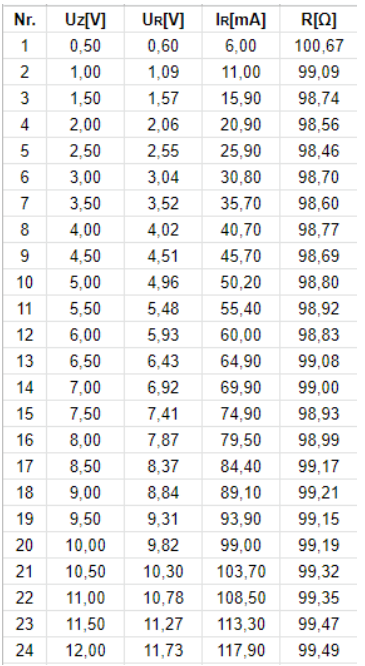
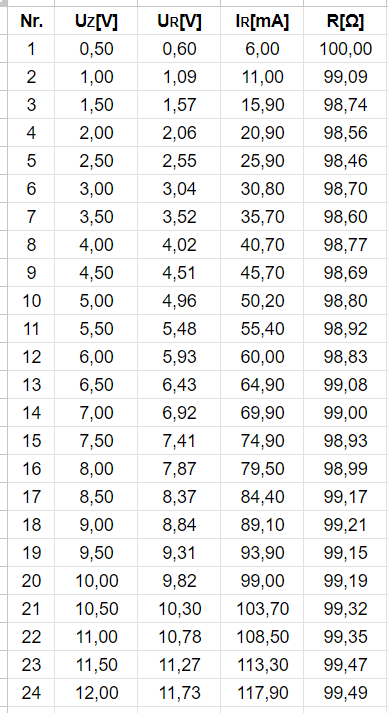
first problem

diff --git a/DC electrical circuits/README.md b/DC electrical circuits/README.md
@@ -4,15 +4,11 @@
 1. To check Ohm's law.
 2. To determine the temperature of the filament of the bulb.
 
-<br>
-
 ### Course of the exercise:
 1. Assemble a circuit consisting of a resistor, an ammeter (200 mA range), and a voltmeter (20 V range).
 2. Vary the voltage U (0 - 6 V) and read the intensity I. Make an accurate note of ΔU and ΔI.
 3. Change the resistor to an incandescent bulb and carry out analogous measurements.
 4. Read the ambient temperature t0.
-
-<br>
 
 ### Input data:
 1. Alpha value: <br>
@@ -24,8 +20,6 @@
 3. Resistance of the resistor / bulb: <br>
 ![r0](images/r0.gif)
 
-<br>
-
 ### Required physical formulas:
 1. Average resistance: <br>
 ![Sr](images/Sr.gif)
@@ -36,11 +30,16 @@
 3. Resistance calculation: <br>
 ![r](images/r.gif)
 
+### Additional formulas:
+
+1. Resistance formula: <br>
+![another_r](images/another_r.gif)
+
 <br>
 
-Testing of the resistor Rt = 100 Ω ± 10 Ω 
+Results after testing the resistor Rt = 100 Ω ± 10 Ω 
 
-![Photo1](images/photo1.png)
+![Photo3](images/photo3.png)
 
 Where: <br>
 Nr. - ordinal order <br>
@@ -49,7 +48,18 @@ Ur - resistor voltage [V] <br>
 Ir - resistor current [mA] <br>
 R - electrical resistance [Ω] <br>
 
+## First problem: calculation of resistance
+
+To calculate the resistance you need to use the resistance formula. This formula is given in "additional formulas". Then substitute for the letter "U" the results from the measurements "Ur[V]" and for the letter I the results from the measurements "Ir[mA]". At the very end, we must remember that the results from the measurements of "Ir" are given in "[mA]". This means that we have to multiply the result times 1000 to get the value expressed in "[A]".
+
 <br>
+
+The calculations are shown in "CALCULATION OF RESISTANCE." After the calculation, we complete the table.
+
+![Photo1](images/photo1.png)
+
+<br>
+
 
 Bulb test
 
